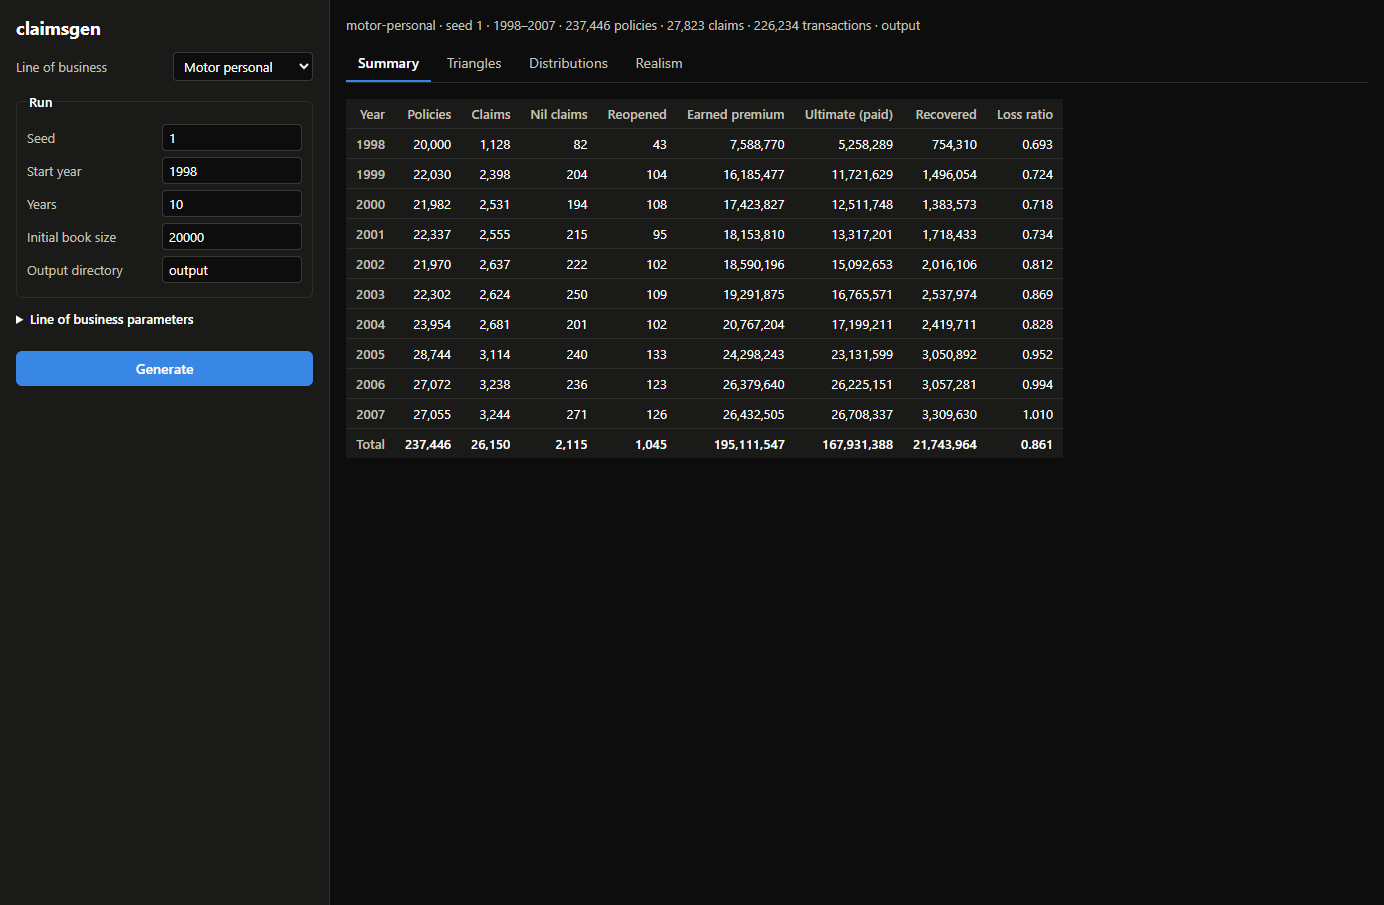
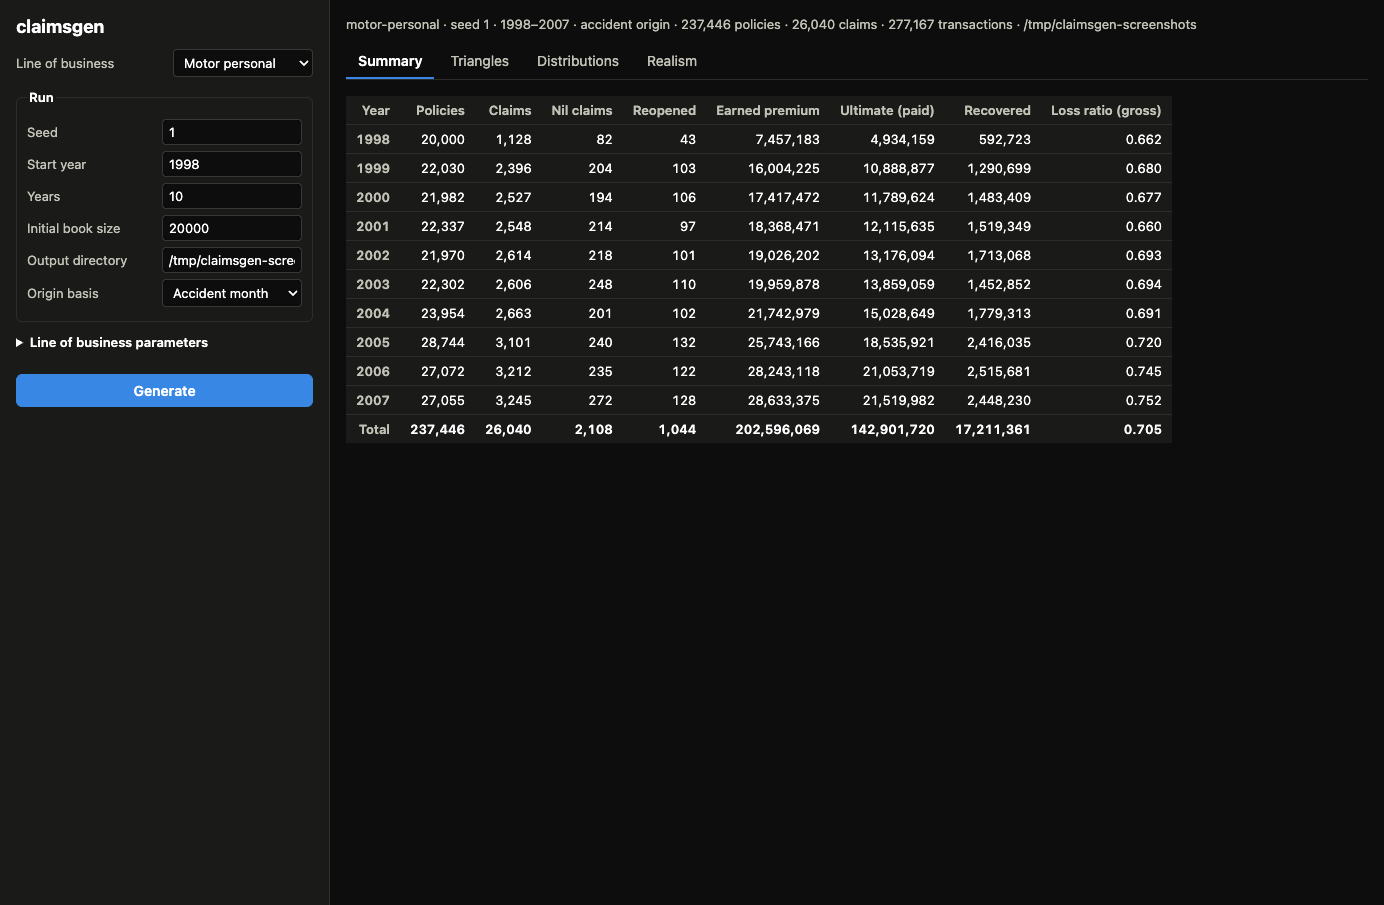
Regenerate the UI screenshots and close D-1
The images predated target-loss-ratio pricing and claim windowing, so the
README advertised two fixed defects: a header claim count that disagreed with
the summary total, and per-year loss ratios climbing to 1.010. All five are
regenerated - the count now agrees at 26,040 and the ratios read 0.662 to
0.752 - and they also pick up this branch's origin basis select and the
accident origin marker in the run summary line.

D-1's bundled actions come with it. The README's Browser UI paragraph now
names the Pricing group it never mentioned (old D-2). puppeteer-core is pinned
to an exact 25.8.0 with package-lock.json tracked rather than ignored (old L3);
the version bump is not cosmetic, since 24.x pulled three high-severity
extract-zip advisories through @puppeteer/browsers and 25.8.0 audits clean.

The screenshot tool now points its runs at a neutral output directory. The
server resolves out_dir to an absolute path and the UI echoes it into the run
summary line, so the default would have baked whoever regenerated the images,
and their home directory layout, into a published screenshot.

diff --git a/tools/screenshots/screenshots.js b/tools/screenshots/screenshots.js
@@ -7,6 +7,9 @@ const path = require("path");
 
 const OUT = path.join(__dirname, "..", "..", "docs", "screenshots");
 const URL = process.env.CLAIMSGEN_URL || "http://127.0.0.1:8093";
+// Where the screenshotted runs write their CSVs. It shows in the run summary
+// line, so keep it free of anything machine-specific.
+const OUT_DIR = process.env.CLAIMSGEN_OUT_DIR || "/tmp/claimsgen-screenshots";
 
 function defaultChrome() {
   switch (process.platform) {
@@ -55,6 +58,16 @@ async function selectTab(page, tab) {
   await page.setViewport({ width: 1384, height: 905, deviceScaleFactor: 1 });
   await page.goto(URL, { waitUntil: "networkidle0" });
   await page.waitForFunction(() => document.querySelectorAll("#lob-select option").length > 0);
+
+  // Point the run at a neutral directory. The server resolves out_dir to an
+  // absolute path and the UI echoes it in the run summary line, so leaving the
+  // default would bake whoever regenerated these images into a published
+  // screenshot.
+  await page.evaluate((dir) => {
+    const input = document.querySelector("#out-dir");
+    input.value = dir;
+    input.dispatchEvent(new Event("input", { bubbles: true }));
+  }, OUT_DIR);
 
   await generateAndWait(page);
   await new Promise((r) => setTimeout(r, 300));

diff --git a/docs/todo.md b/docs/todo.md
@@ -24,13 +24,12 @@ soon, **low** fix when touching the area. Nothing high-severity is open.
 
 ## Order
 
-(The leading numbers are stable position IDs, not a dense count - item 7 was
-RF-1, resolved by the monthly triangles work and moved to "Resolved, for
-provenance" below, so the gap between 6 and 8 is expected rather than a typo.)
+(The leading numbers are stable position IDs, not a dense count. Items 2 and 7
+were D-1 and RF-1, both resolved by the monthly triangles work and moved to
+"Resolved, for provenance" below, so the gaps are expected rather than typos.)
 
 1. **SL-7** - the only open item that changes what a reserving actuary sees in
    the data.
-2. **D-1** - the README currently advertises defects that were fixed months ago.
 3. **MF-3** - a small change that removes the main friction from the "a new
    class is just a YAML file" promise.
 4. **RF-13** - gates the second line of business.
@@ -64,24 +63,6 @@ the area rather than scheduling them.
 - Cost note: this is the most expensive item here. It changes generated output,
   so it needs a golden-hash refresh and a realism-gate re-check, and the preset
   may need recalibrating.
-
-## 2. D-1 (low) - the UI screenshots predate the pricing and windowing work
-
-- Where: `docs/screenshots/`, embedded in `README.md`.
-- The images were last regenerated before target-loss-ratio pricing and claim
-  windowing, so they still show both fixed defects: a header claim count that
-  disagrees with the summary total (27,823 versus 26,150) and per-year loss
-  ratios climbing from 0.693 to 1.010. A current run of the same defaults gives
-  26,040 claims in both places and loss ratios from 0.662 to 0.752. The sidebar
-  also predates the Pricing parameter group, and the realism tab predates the
-  loss-ratio-drift card. The README is the shopfront and it currently
-  advertises fixed bugs.
-- Action, all in one pass: regenerate with `tools/screenshots` (start the UI on
-  port 8093, `npm install`, `node screenshots.js`; needs a local Chrome,
-  `CHROME_PATH` to override the location); add the missing Pricing group to the
-  README's Browser UI paragraph (old D-2); and while in `tools/screenshots`,
-  commit `package-lock.json` and pin `puppeteer-core` to an exact version
-  instead of `^24.0.0` (old L3), which is the repo's one supply-chain weakness.
 
 ## 3. MF-3 (medium) - sub-blocks must validate even when switched off
 
@@ -161,8 +142,8 @@ side.
 
 ## 8. L2 (low) - agent-artifact ignore rules are not in the tracked gitignore
 
-- Where: `.gitignore`, which covers only `/output/`, `/claimsgen`, `*.exe`,
-  `tools/screenshots/node_modules/` and `tools/screenshots/package-lock.json`.
+- Where: `.gitignore`, which covers only `/output/`, `/claimsgen`, `*.exe` and
+  `tools/screenshots/node_modules/`.
 - It does not cover `.claude/` or `.superpowers/`, so a contributor running
   Claude Code in a fresh clone would generate session artifacts (prompts,
   scheduled-task metadata, agent memory) that are not ignored. The 2026-07-22
@@ -264,6 +245,7 @@ Full text and the measurements behind each are in git history.
 
 | ID | Was | Resolution |
 | --- | --- | --- |
+| D-1 | UI screenshots predate the pricing and windowing work | Resolved with the monthly triangles work: all five images regenerated, so the header claim count now agrees with the summary total (26,040 in both) and per-year loss ratios read 0.662 to 0.752 rather than climbing to 1.010. Carried its bundled actions too - the README's Browser UI paragraph now names the Pricing group (old D-2), and `puppeteer-core` is pinned to an exact 25.8.0 with `package-lock.json` tracked (old L3), which also clears the three high-severity `extract-zip` advisories that 24.x carried. The screenshot tool now writes to a neutral output directory, because the server resolves `out_dir` to an absolute path that the UI echoes into the image. |
 | RF-1 | `developmentYears` defined twice, with the same two triangles computed in both places | Resolved by the monthly triangles work: `application.Aggregate` performs the run's aggregation once and hands out the annual triangles, so the constant lives only in `internal/application/aggregate.go` and the annual triangles are built once per run instead of once in `realism.go` and again in `viewmodel.go`. `EvaluateRealism` now takes an `Aggregates`. Note that an underwriting-basis run deliberately builds a second, accident-basis grid: the Schedule P reference data is an accident-year presentation, so the annual triangles the realism check scores must stay on the accident basis whatever basis the monthly output uses. |
 
 - **2026-08-10 web-run reliability pass**: **R-1** (generation runs one at a

diff --git a/README.md b/README.md
@@ -36,7 +36,7 @@ claimsgen generate \
 ./claimsgen ui
 ```
 
-Serves a local web UI on `http://127.0.0.1:8080` (`--port` to change). It offers the same run flags as the CLI (including an origin basis select for `--origin-basis`) plus every line of business parameter (prefilled from the preset, editable, including a Recoveries group for the salvage and subrogation probabilities, mean shares, and lags, and a reopen probability and reopen estimate factor for reopened claims), writes the same five CSVs on Generate, and shows the result: per-year summary stats (including a Recovered column and a Reopened column), paid and incurred development triangles with age-to-age factors and a Paid (gross) / Paid (net) / Incurred toggle, severity and lag distributions, and the run's position inside the Schedule P realism bands. The Schedule P reference data is embedded in the binary.
+Serves a local web UI on `http://127.0.0.1:8080` (`--port` to change). It offers the same run flags as the CLI (including an origin basis select for `--origin-basis`) plus every line of business parameter (prefilled from the preset, editable, including a Pricing group holding the insurer's assumed loss cost and target loss ratio, a Recoveries group for the salvage and subrogation probabilities, mean shares, and lags, and a reopen probability and reopen estimate factor for reopened claims), writes the same five CSVs on Generate, and shows the result: per-year summary stats (including a Recovered column and a Reopened column), paid and incurred development triangles with age-to-age factors and a Paid (gross) / Paid (net) / Incurred toggle, severity and lag distributions, and the run's position inside the Schedule P realism bands. The Schedule P reference data is embedded in the binary.
 
 A run reports its elapsed time and can be cancelled while it is going; the previous run's results stay on screen, dimmed and labelled, until the new ones arrive. Runs are serialized, so two tabs cannot write over each other's CSVs, and the UI caps run size - years, initial book size, and the projected policy count once the growth factor has compounded - so a mistyped parameter is rejected rather than run. The CLI has no such caps.
 
